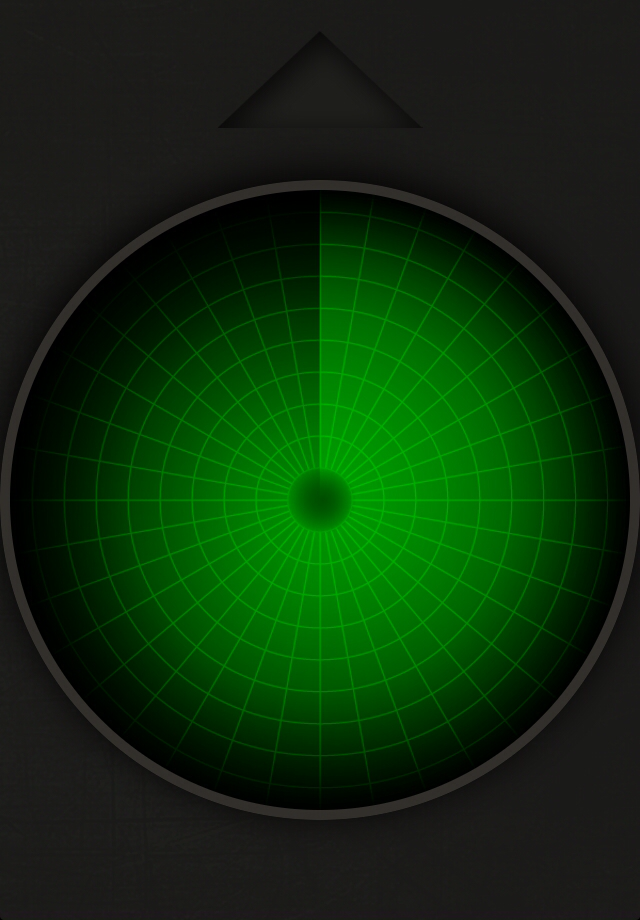
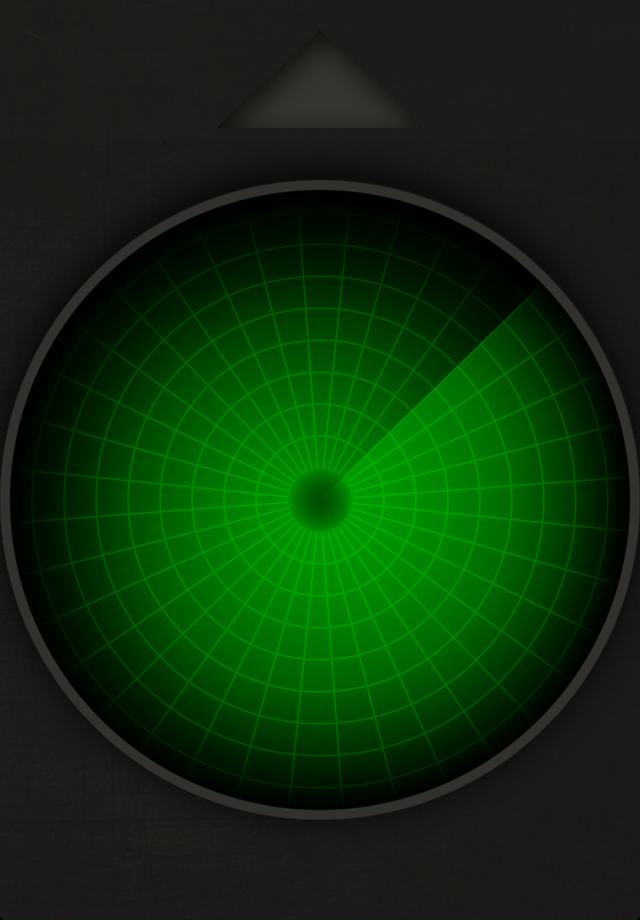
Buncha stuff. Animation of rotation works properly. Fake out shadow for performance. Minor interface tweaks.

diff --git a/App/UI/Application Delegates/SpiritRadioAppDelegate.m b/App/UI/Application Delegates/SpiritRadioAppDelegate.m
@@ -9,11 +9,12 @@
 #import "SpiritRadioAppDelegate.h"
 
 #import "SpiritRadioViewController.h"
+#import "RadarView.h"
 
 @implementation SpiritRadioAppDelegate
 
 @synthesize window;
-@synthesize viewController;
+@synthesize radioViewController = mRadioViewController;
 
 - (Class) viewControllerClass {
     return [SpiritRadioViewController class];
@@ -27,17 +28,33 @@
     if (self) {
         self.window = [[UIWindow alloc] initWithFrame:[[UIScreen mainScreen] bounds]];
         
-        self.viewController = [[self.viewControllerClass alloc] init];
-        [self.window addSubview:viewController.view];
+        self.radioViewController = [[SpiritRadioViewController alloc] init];
+        [self.window addSubview:self.radioViewController.view];
+        
+        [NSTimer scheduledTimerWithTimeInterval:(1.0/60.0) target:self selector:@selector(updateViews) userInfo:nil repeats:YES];
     }
     return self;
 }
 
-- (BOOL)application:(UIApplication *)application didFinishLaunchingWithOptions:(NSDictionary *)launchOptions {
-    
+- (void) updateViews {
+    self.radioViewController.radarView.originOrientation = mRadians;
+}
+
+- (BOOL)application:(UIApplication *)application didFinishLaunchingWithOptions:(NSDictionary *)launchOptions {    
     [self.window makeKeyAndVisible];
 
+    locationManager = [[CLLocationManager alloc] init];
+    locationManager.delegate = self;
+    locationManager.desiredAccuracy = kCLLocationAccuracyBest;
+    [locationManager startUpdatingHeading];
+    [locationManager startUpdatingLocation];
+    
     return YES;
+}
+
+- (void) locationManager:(CLLocationManager *)manager didUpdateHeading:(CLHeading *)newHeading {
+    CLLocationDirection heading = newHeading.trueHeading;
+    mRadians = (90.0 - heading) * (M_PI/180.0);
 }
 
 
@@ -90,7 +107,7 @@
 
 
 - (void)dealloc {
-    [viewController release];
+    [mRadioViewController release];
     [window release];
     [super dealloc];
 }

diff --git a/App/UI/Views/RadarView.m b/App/UI/Views/RadarView.m
@@ -12,17 +12,28 @@
 
 @implementation RadarView
 
+@synthesize originOrientation = mOriginOrientation;
+
+- (void) setOriginOrientation:(CGFloat)newOrientation {
+    mOriginOrientation = newOrientation;
+    
+    NSLog(@"%f", newOrientation);
+    
+    [UIView beginAnimations:nil context:NULL];
+    self.transform = CGAffineTransformMakeRotation(newOrientation);
+    [UIView commitAnimations];
+}
+
 - (CALayer *) screenCircle {
     if (!mScreenCircle) {
         mScreenCircle = [[CALayer layer] retain];
         mScreenCircle.frame = self.bounds;
-        mScreenCircle.backgroundColor = [UIColor blackColor].CGColor;
-        mScreenCircle.cornerRadius = self.bounds.size.width / 2;
         mScreenCircle.borderColor = [UIColor colorWithRed:(50.0/255.0) green:(48.0/255.0) blue:(44.0/255.0) alpha:1].CGColor;
+        mScreenCircle.cornerRadius = self.bounds.size.width / 2;
         mScreenCircle.borderWidth = 5.0;
-        mScreenCircle.shadowRadius = 10.0;
-        mScreenCircle.shadowColor = [UIColor blackColor].CGColor;
-        mScreenCircle.shadowOpacity = 1.0;
+//        mScreenCircle.shadowRadius = 10.0;
+//        mScreenCircle.shadowColor = [UIColor blackColor].CGColor;
+//        mScreenCircle.shadowOpacity = 1.0;
         mScreenCircle.contents = [UIImage imageNamed:@"radar"].CGImage;
     }
     return mScreenCircle;
@@ -43,8 +54,8 @@
     
     self = [super initWithFrame:frame];
     if (self) {
-        self.opaque = NO;
-        self.backgroundColor = [UIColor clearColor];
+//        self.opaque = NO;
+//        self.backgroundColor = [UIColor clearColor];
         
         [self.layer addSublayer:self.screenCircle];
     }

diff --git a/App/UI/Application Delegates/SpiritRadioAppDelegate.h b/App/UI/Application Delegates/SpiritRadioAppDelegate.h
@@ -7,17 +7,21 @@
 //
 
 #import <UIKit/UIKit.h>
+#import <CoreLocation/CoreLocation.h>
 
 @class SpiritRadioViewController;
 
-@interface SpiritRadioAppDelegate : NSObject <UIApplicationDelegate> {
+@interface SpiritRadioAppDelegate : NSObject <UIApplicationDelegate, CLLocationManagerDelegate> {
     UIWindow *window;
-    UIViewController *viewController;
+    SpiritRadioViewController *mRadioViewController;
+    
+    CLLocationManager *locationManager;
+    
+    CGFloat mRadians;
 }
 
 @property (nonatomic, retain) IBOutlet UIWindow *window;
-@property (nonatomic, retain) IBOutlet UIViewController *viewController;
-@property (nonatomic, readonly) Class viewControllerClass;
+@property (nonatomic, retain) IBOutlet SpiritRadioViewController *radioViewController;
 
 @end
 

diff --git a/App/UI/Views/RadarView.h b/App/UI/Views/RadarView.h
@@ -17,4 +17,6 @@
 @property (readonly) CALayer *screenCircle;
 @property (readonly) CALayer *originCircle;
 
+@property (nonatomic, assign) CGFloat originOrientation;
+
 @end
